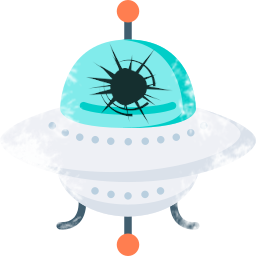
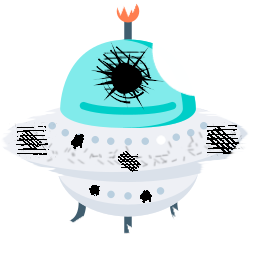
New cheat - press 7 to activate 60s immunity. Fixed big alien damaged textures

diff --git a/scenes_and_characters.py b/scenes_and_characters.py
@@ -195,14 +195,12 @@ class Alien(Character):
 
     # methods
     def draw(self):
-        frame.blit(self.image[0], self.rect)
         if self.level == 4:
             if self.health == 2:
-                frame.blit(self.image[2], self.rect)
+                self.image[0] = self.image[2]
             elif self.health == 1:
-                frame.blit(self.image[1], self.rect)
-            else:
-                frame.blit(self.image[0], self.rect)
+                self.image[0] = self.image[1]
+        frame.blit(self.image[0], self.rect)
 
     def update(self):
         self.rect.move_ip(0, self.speed)
@@ -385,6 +383,10 @@ class GameScene(Scene):
                         elif event.key == pygame.K_8:
                             # shield bonus easter egg code code cheat
                             GameScene.player.has_shield = True
+                        elif event.key == pygame.K_7:
+                            # immunity bonus easter egg code cheat
+                            GameScene.start_time_immunity = functions.get_current_time() + 50
+                            GameScene.player.is_immune = True
                         elif event.key == controls[4]:
                             if GameScene.player.num_of_bullets > 0:
                                 GameScene.player.num_of_bullets -= 1
@@ -1394,6 +1396,7 @@ def game_restart():
     functions.load_music('audio/soundtrack.mp3')
     pygame.mixer.music.play(-1)
     GameScene.game_is_active = True
+    # place for testing static aliens
 
 
 def get_ready():  # count 3 seconds before resuming the game, blit the counter
